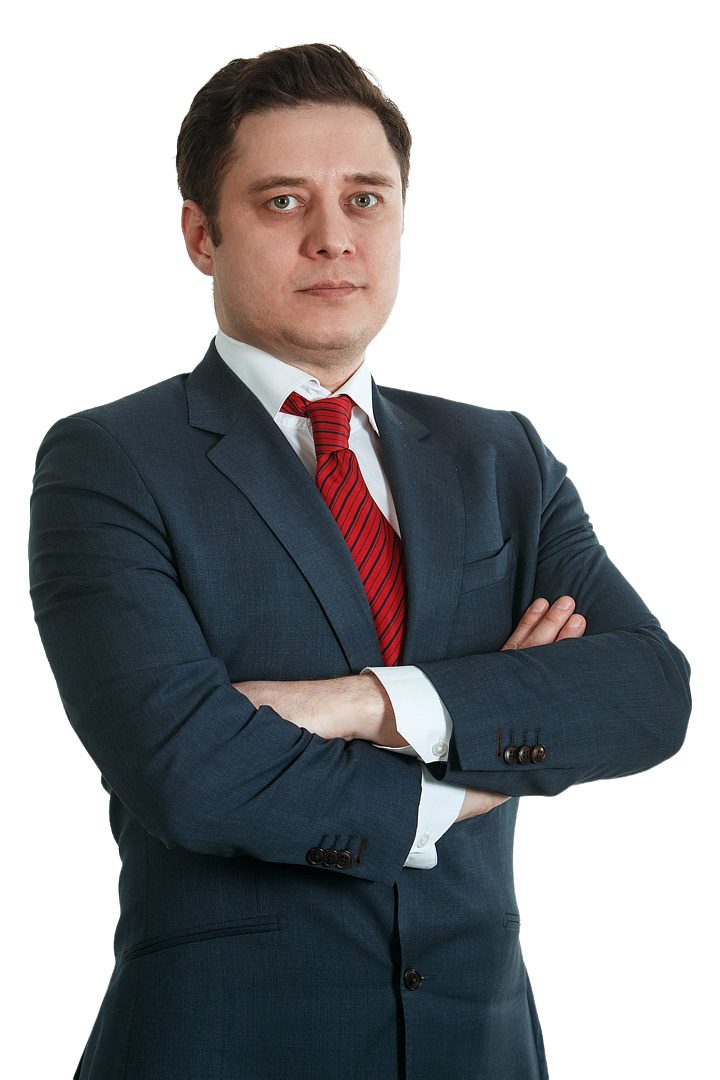
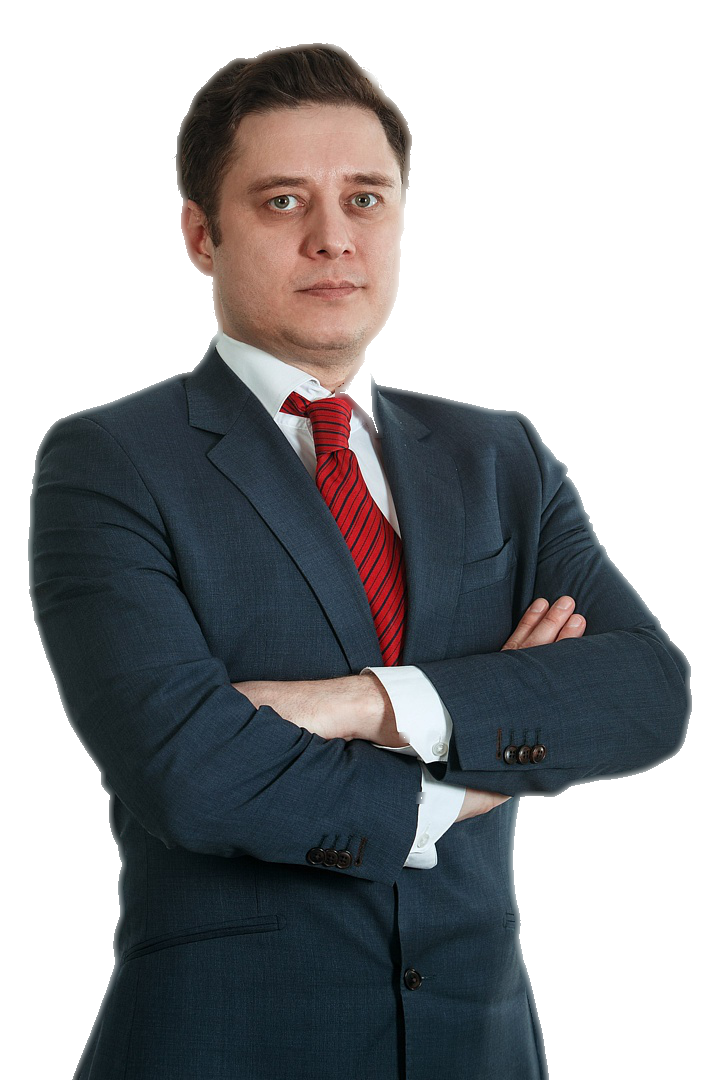
update

diff --git a/css/site2.css b/css/site2.css
@@ -46,7 +46,8 @@
 }
 
 .site2 .marketolog__3 {
-    color: #5A79E9;;
+    color: #5A79E9;
+    ;
     font-size: 60px;
     line-height: 1.25;
     max-width: 800px;
@@ -71,7 +72,8 @@
     font-weight: 600;
     border-width: 2px;
     border-radius: 10px;
-    background-color: #5A79E9;;
+    background-color: #5A79E9;
+    ;
     background-position: center center;
     border-color: transparent;
     border-style: solid;
@@ -82,8 +84,10 @@
 .site2 .marketolog__button:hover {
     background-color: #f2f2f2;
     background-image: none;
-    border-color: #5A79E9;;
-    color: #5A79E9;;
+    border-color: #5A79E9;
+    ;
+    color: #5A79E9;
+    ;
 }
 
 .site2 .marketolog__cards {
@@ -139,10 +143,10 @@
     width: 600px;
     height: 600px;
     overflow: hidden;
-    /* border-radius: 50%; */
-    background-color: white;
+    background-color: rgb(90 121 233 / 10%);
     z-index: -1;
-    
+    border-radius: 50%;
+
 }
 
 .site2 .marketolog__photo img {
@@ -192,6 +196,7 @@
     .site2 .marketolog__cards {
         grid-template-columns: 1fr;
     }
+
     .site2 .marketolog__button {
         width: 300px;
         height: 70px;
@@ -207,10 +212,12 @@
         grid-row: 5/6;
         margin-bottom: -50px;
         margin-left: -45px;
+        background-color: transparent;
     }
 
     .site2 .marketolog__3 {
-        color: #5A79E9;;
+        color: #5A79E9;
+        ;
         font-size: 45px;
         line-height: 1.25;
         max-width: 800px;
@@ -220,6 +227,6 @@
 
 @media(max-width: 400px) {
     .site2 .marketolog__photo {
-      width: 100%;
+        width: 100%;
     }
 }
